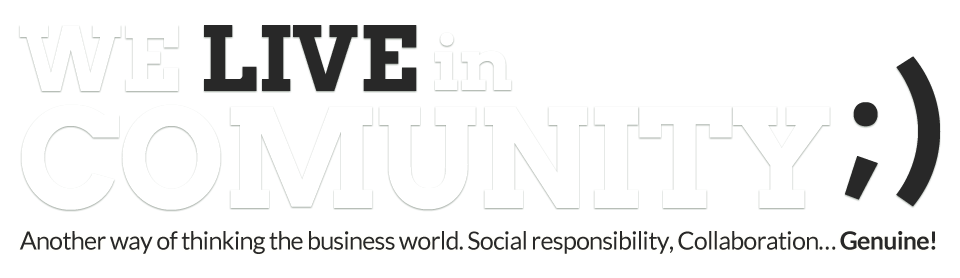
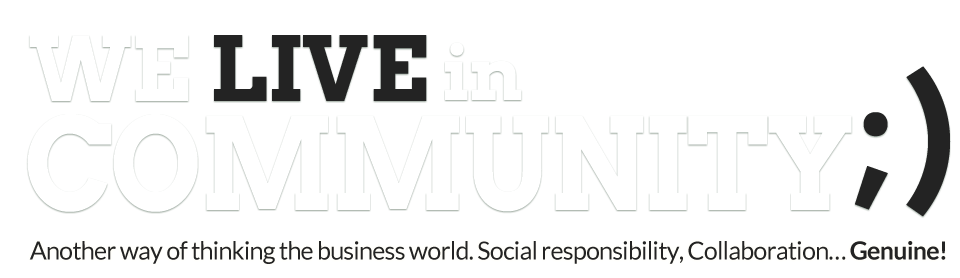
Fix some text errors

diff --git a/data/templates/main/company.html b/data/templates/main/company.html
@@ -21,7 +21,7 @@
 				<img src="{{ MEDIA_URL }}images/html/experience.jpg" alt="" class="f-l" />
 				<div class="float_right">
 				
-				<h4>Smart business, Expertize, Open Mindedness, Innovation and Creativity.</h4></br>
+				<h4>Smart business, Expertise, Open Mindedness, Innovation and Creativity.</h4></br>
 				<p>Openshine uses its creativity and knowledge in its client´s benefit, to offer wise  and based on experience solutions. We are a young and high qualified team, specialist, as by our knowledge as by experience, on the Free Software sector, open standards and integration in the FLOSS community.</p>
 				<p>Our main aim is collaborating with companies for its complete integration in the Information Society through Free Software, improving tools quality and an easier comunication between companies and its clients.</p>
 				<p>Because of our knowledge, as technologies as state of art market knowledge, we are the perfect partner to offer solutions based in Free Software.</p>
@@ -73,7 +73,7 @@
 				</header>
 				<img src="{{ MEDIA_URL }}images/html/community.jpg" alt="" class="f-l" />
 				<div class="float_right">
-				<h4>Another way of thinking the business world. Social resposibility, collaboration ... Genuine! :)</h4></br>
+				<h4>Another way of thinking the business world. Social responsibility, collaboration ... Genuine! :)</h4></br>
 				<p>We understand FLOSS isn't only a way to develop software, but also a big experience at the moment of generating and sharing knowledge, and offering to our clients new ways towards innovation.</p>
 				<p>As part of the FLOSS community since many years ago, our development model is completely open. From the use of social tools for code management to our participation and sponsorship of big events in the Community. Transparency and colaboration are essential values for OpenShine.</p>
 				<p>OpenShine has an unavoidable commitment to sharing, both its knowledge and its experiences for  the benefit of the FLOSS community.</p>
